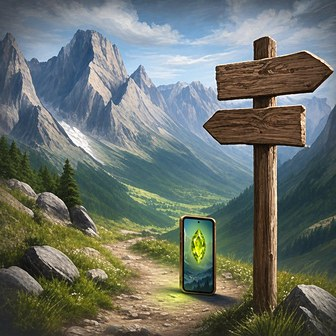
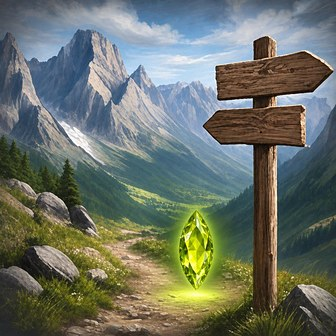
AR trail missions card: the glowing peridot on the trail crossroad instead of the phone
Claude-Session: https://claude.ai/code/session_01Bc8dTu2Rduqva5cFxfx3Wo

diff --git a/index.html b/index.html
@@ -520,7 +520,7 @@ button { font: inherit; color: inherit; }
       <p class="ld-text" data-i18n="text">An earthquake shattered the green gem of Prokletije. Find its pieces out on the trails of Prokletije.</p>
       <div class="ld-modes">
         <button class="mode framed field" id="go-field" type="button">
-          <span class="mode-art" aria-hidden="true"><img src="landing/trail.jpg?v=2" alt="" width="240" height="240" decoding="async"></span>
+          <span class="mode-art" aria-hidden="true"><img src="landing/trail.jpg?v=3" alt="" width="240" height="240" decoding="async"></span>
           <span class="mode-body">
             <span class="mode-kicker" data-i18n="cardKicker">On site</span>
             <span class="mode-title" data-i18n="cardTitle">AR trail missions</span>
